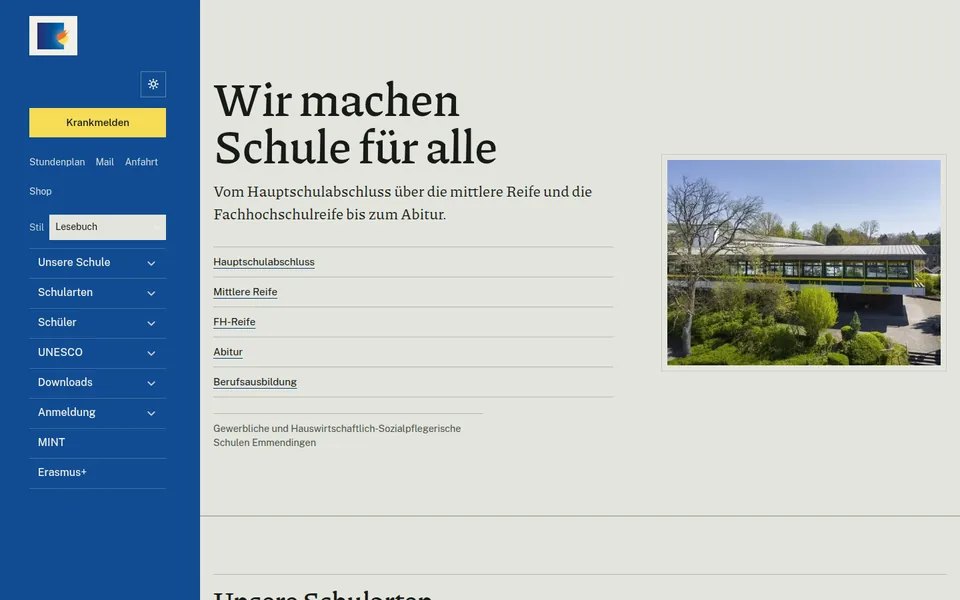
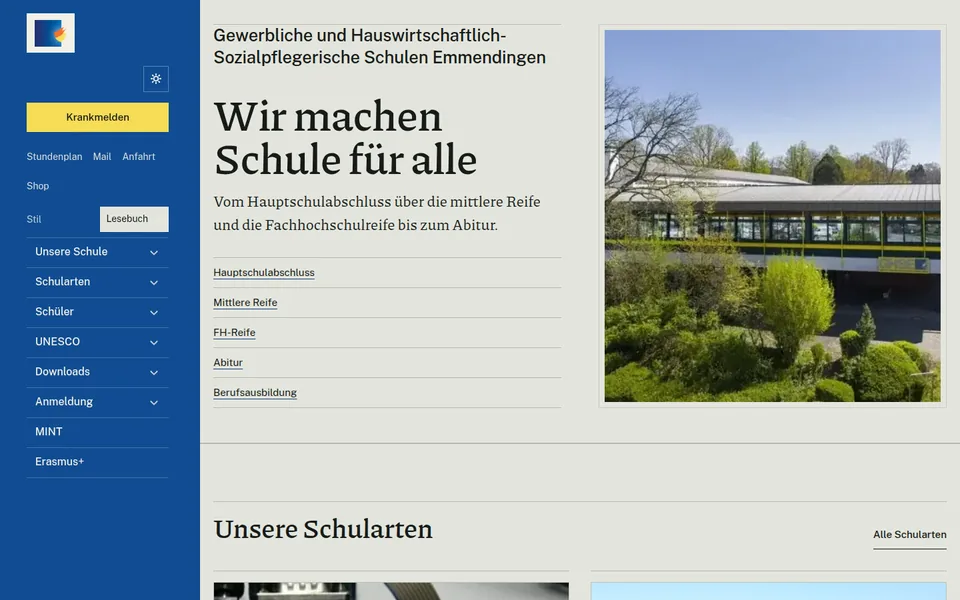
Lesebuch: Schulname als Masthead, groesseres Hero-Bild, engerer Kopf
- Schulname steht wieder oben: 1,15-1,6 rem, Tinte, Haarlinie; auf Mobil 1,15 rem.
- Hero-Bild fuellt die rechte Spalte (rund 520x565 statt 427x320); Text und Bild je 1fr.
- Abstaende im Kopf (Logo, Aktion, Schnellzugriffe, Stil, Verzeichnis) verkleinert; Hero beginnt bei 2,25 rem.
- Hallmark: 44c-Waiver aktualisiert, 58 als Note (copy: verbatim), 0 FAIL.
- Geprueft: themes.py 125/0, layout.py 0, detect 0, 72 Referenzaufnahmen der vier Bestands-Themes pixelgleich, theme5-guard 692 Dateien.

diff --git a/assets/css/lesebuch.css b/assets/css/lesebuch.css
@@ -1,6 +1,6 @@
 /* Hallmark · theme: custom · idea: "Die Schule als Lesebuch: blauer Rücken, Papier, Tafeln, Verzeichnis" · vibe: "gebunden, ruhig, konkret, vielseitig" · paper: mid #e3e5dd · ink: #171b18 · accent: #114c92 (Rücken) und #f6dc56 (Lesebändchen) · display: Piazzolla · body: Public Sans · hero: Ledge · nav: blauer Rücken als Verzeichnis · footer: Kolophon · posture: restrained · axes: mid/roman-serif/cool · copy: verbatim */
 /* Hallmark · pre-emit critique: P5 H4 E4 S5 R4 V5 · weakest: H — der Rücken darf die Seite nicht überschreien; eine Fläche, eine gelbe Marke, keine weitere Farbe */
-/* Hallmark · waive 44c · custom hero: Tafel-Mitte 394 px, Titelblock-Mitte 399 px · der feste Rücken ersetzt die Kopfleiste */
+/* Hallmark · waive 44c · custom hero, die Tafel füllt den Textblock · die Schule und ihr Bild tragen den ersten Bildschirm */
 /* Hallmark · waive 79 · Ledge: der Fold ist der Hero-Fuß plus 104 px Bandabstand · eine Leseseite, kein Poster */
 /* Hallmark · waive 83 · own GHSE photographs, gemessen 17 % der Fläche unter dem Hero · sloplint teilt durch den 211-px-Rücken-Container */
 /* Hallmark · answered F7 · eine 1-px-Kante trägt Leseseite, Notizen und Formulare; Unterschiede macht die Schrift, nicht der Kasten */
@@ -670,20 +670,20 @@
    Etikett: normale Zeile, Haarlinie darunter, keine Versalien. */
 :root[data-design="lesebuch"] .hero__marke {
   display: block;
-  margin: 0 0 var(--lb-s6);
+  margin: 0 0 var(--lb-s5);
   padding: 0 0 var(--lb-s3);
   background: transparent;
-  color: var(--lb-leise);
+  color: var(--lb-tinte);
   border: 0;
   border-bottom: 1px solid var(--lb-linie);
   box-shadow: none;
   font-family: var(--lb-ui);
-  font-size: 0.9rem;
-  font-weight: 400;
-  line-height: 1.45;
-  letter-spacing: 0;
+  font-size: clamp(1.15rem, 2.2vw, 1.6rem);
+  font-weight: 500;
+  line-height: 1.3;
+  letter-spacing: -0.005em;
   text-transform: none;
-  max-width: 46ch;
+  max-width: 44ch;
 }
 
 :root[data-design="lesebuch"] .hero__titel {
@@ -2957,5 +2957,85 @@
      Schnellzugriff wäre derselbe Link ein zweites Mal. */
   :root[data-design="lesebuch"] .menue__schnell .chip:first-child {
     display: none;
+  }
+}
+
+/* ---------- Feinschliff Hero (Nutzerwunsch) ----------
+   Der Schulname steht wieder oben und trägt als Masthead; das Bild füllt
+   die rechte Spalte in der Höhe des Textblocks. Der Kopf rückt enger
+   zusammen, damit der Einstieg höher beginnt. */
+@media (min-width: 1200px) {
+  :root[data-design="lesebuch"] .hero {
+    min-height: 0;
+    display: block;
+    padding-block: 2.25rem 3.25rem;
+  }
+
+  :root[data-design="lesebuch"] .hero__innen {
+    grid-template-columns: minmax(0, 1fr) minmax(0, 1fr);
+    align-items: stretch;
+    gap: clamp(2rem, 4vw, 3.5rem);
+  }
+
+  :root[data-design="lesebuch"] .hero__marke {
+    order: 0;
+    max-width: 44ch;
+    margin: 0 0 1.25rem;
+    padding: 0 0 0.9rem;
+    color: var(--lb-tinte);
+    font-size: clamp(1.2rem, 1.9vw, 1.6rem);
+    font-weight: 500;
+    line-height: 1.3;
+    letter-spacing: -0.005em;
+  }
+
+  :root[data-design="lesebuch"] .hero__titel {
+    font-size: clamp(2.6rem, 4.6vw, 4rem);
+  }
+
+  :root[data-design="lesebuch"] .hero__bild {
+    display: flex;
+    align-self: stretch;
+    margin: 0;
+    padding: 0.5rem;
+  }
+
+  :root[data-design="lesebuch"] .hero__bild img {
+    width: 100%;
+    height: 100%;
+    min-height: 30rem;
+    aspect-ratio: auto;
+    object-fit: cover;
+    object-position: 50% 55%;
+  }
+
+  /* Kopf enger: weniger Luft zwischen Logo, Aktion, Schnellzugriffen,
+     Stilwahl und Verzeichnis. */
+  :root[data-design="lesebuch"] .kopf {
+    padding: 1.25rem 1.25rem 1rem;
+  }
+
+  :root[data-design="lesebuch"] .kopf__ende {
+    margin-top: 1.25rem;
+  }
+
+  :root[data-design="lesebuch"] .krankmelden-knopf {
+    margin-top: 1rem;
+  }
+
+  :root[data-design="lesebuch"] .menue {
+    margin-top: 1rem;
+  }
+
+  :root[data-design="lesebuch"] .menue ul a {
+    padding: 0.55rem 0.25rem 0.55rem 0.8rem;
+  }
+
+  :root[data-design="lesebuch"] .menue__schnell {
+    margin-bottom: 0.5rem;
+  }
+
+  :root[data-design="lesebuch"] .stilwahl--menue {
+    margin-bottom: 0.5rem;
   }
 }

diff --git a/lesebuch-LAYOUTS.md b/lesebuch-LAYOUTS.md
@@ -46,15 +46,15 @@ RTL-Oberfläche (keine `dir="rtl"`-Seite), native Apps.
 | LOW | Skip-Link | Blauer Ring auf blauem Rücken (1,23:1) | Gelber Ring auf dem Rücken | 1.4.11; der Fokusring ist auch am ersten Stopp sichtbar |
 | LOW | `html` | Kein `scroll-padding` | `scroll-padding-block-start: calc(--kopfhoehe + .5rem)` | Fokus und Anker landen nicht unter dem klebenden Kopf |
 | LOW | Rücken | Kein sichtbarer Hinweis auf weiteren Inhalt | Dünner Scrollbalken + weiche Kante unten | better-layout: versteckter Inhalt braucht eine Spur |
+| — | Hero (Nutzerwunsch) | Schulname klein und unten, Bild 427 × 320 px | Schulname oben, 1,15–1,6 rem; Bild füllt die rechte Spalte (rund 520 × 565 px) | Der Einstieg sollte die Schule und den Ort sofort zeigen; Abstände im Kopf enger |
 
 ## Bewusste Entscheidungen
 
-- **Schulname als Impressum-Zeile:** `.hero__marke` steht im DOM vor dem
-  Titel (für Screenreader und die Faktenlage richtig), wird aber unter dem
-  Abschlussverzeichnis gezeigt (`order: 5`). Hallmark-Gate 58 verbietet drei
-  Textblöcke vor den Aktionen; der Name ist kein Einstiegstext, sondern eine
-  Impressum-Zeile. Der Eingriff ist nicht fokussierbar und ändert die
-  Tastaturreihenfolge nicht.
+- **Schulname als Masthead über dem Titel:** Auf ausdrücklichen Wunsch
+  steht der volle Schulname groß und oben (1,15–1,6 rem, Tinte,
+  Haarlinie). Hallmark 58 meldet dadurch drei Textblöcke vor den Aktionen
+  und führt das als Note (`copy: verbatim`), nicht als FAIL; der Name ist
+  keine Einstiegstextzeile, sondern der Name der Schule.
 - **Haarlinien als Gruppen:** Das Buch trägt seine Ordnung über Linien und
   Abstände; die Abstände zwischen Kapiteln sind trotzdem mindestens doppelt
   so groß wie die innerhalb eines Kapitels. Die Linien sind Verzeichnis-

diff --git a/lesebuch-DESIGN.md b/lesebuch-DESIGN.md
@@ -103,8 +103,9 @@ Link/Papier 10,0:1 · Gelb/Blau 8,2:1. Text auf Gelb bleibt in beiden Modi
   gesteuert über den 44-px-Pfeilknopf; sie schweben nicht über der Seite.
   Der Rücken scrollt nur den Verzeichnisteil, die Leiste mit Kontakt,
   Schnellzugriffen, Stilwahl und Farbmodus bleibt unten stehen.
-- Der Schulname steht als Impressum-Zeile unter dem Abschluss-Verzeichnis,
-  nicht als Etikett über dem Titel.
+- Der Schulname steht als Masthead über dem Titel: 1,15–1,6 rem, Tinte,
+  Haarlinie darunter. Er ist kein Etikett, sondern der Name der Schule;
+  auf Wunsch der GHSE bewusst größer als in den anderen Varianten.
 - Ab 1200 px entfällt die obere Serviceleiste; ihre Aufgaben stehen in
   DOM-Reihenfolge im Rücken: Farbmodus, Krankmelden, Schnellzugriffe,
   Stilwahl, Verzeichnis. So folgen Lesefluss und Tastatur derselben
@@ -115,9 +116,10 @@ Link/Papier 10,0:1 · Gelb/Blau 8,2:1. Text auf Gelb bleibt in beiden Modi
 
 ### Seiten
 
-- **Startseite:** Titelseite mit H1, Leitsatz, Abschluss-Verzeichnis und
-  einer Tafel; danach Kapitel (Schularten, Instagram, Aktuelles, Termine,
-  Service, Schulleben, Partner). Die Abschluss-Links sind unterstrichen,
+- **Startseite:** Titelseite mit großem Schulnamen als Masthead, H1,
+  Leitsatz, Abschluss-Verzeichnis und einer Tafel, die die rechte Spalte
+  in der Höhe des Textblocks füllt; danach Kapitel (Schularten, Instagram,
+  Aktuelles, Termine, Service, Schulleben, Partner). Die Abschluss-Links sind unterstrichen,
   die Instagram-Beiträge stehen als vierteiliger Streifen, nicht als
   Posterwand.
 - **Seitenkopf:** Brotkrumen als leise Zeile, H1 in Piazzolla, Leitsatz in
